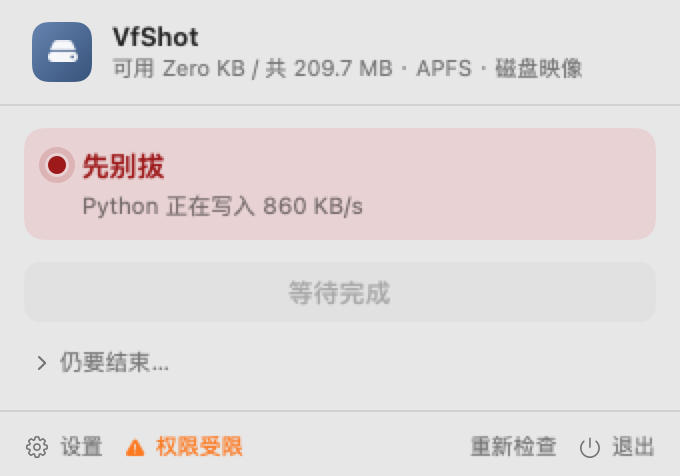
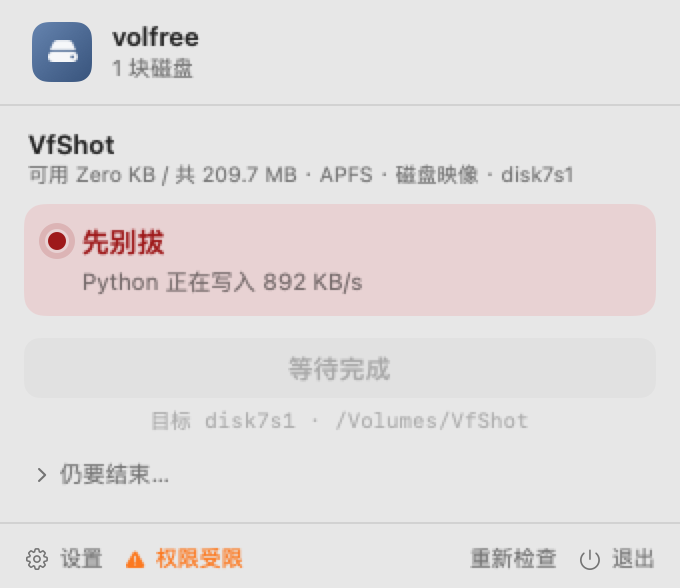
重渲 0.4.0 界面截图，补多盘图与可复现数据源
shots.sh 用 0.4.0 app 重渲 11 张单卷图，compose_shots.py 重拼 3 张对照图与图标预览；
10-空态 / 11-图标 内容与旧版逐字节一致故未变，08 历史对照图保留。

- 新增 shots/12-多盘.png：三卷常驻卷条 + 三重操作对象确认
- 模拟数据源收进 experiments/fake_volumes.py，shots.sh 末尾自动渲染 12，整轮 ./shots.sh 可一键复现
- 根 README「界面」章节补多盘说明与图；app/README.md 同步截图表格、09 通知条描述、VfShot 的 Zero KB 属真实状态说明
- 渲染的仍是真实 PopoverView，不是另画设计稿；判定逻辑与分发物未动

diff --git a/experiments/fake_volumes.py b/experiments/fake_volumes.py
@@ -1,0 +1,161 @@
+#!/usr/bin/python3
+"""多盘界面离屏渲染 / 回归用的模拟数据源。
+
+配合 `VOLFREE_SCRIPT=<本文件> VOLFREE_RENDER=<png>` 使用：让真实 app 读这份假
+JSON 渲染多块磁盘的界面，不必真的插三块盘。`app/shots.sh` 末尾用它生成
+`shots/12-多盘.png`。
+
+环境变量：
+  VOLFREE_FAKE_VOLUMES=1|2|3|5   候选卷数量（默认 3）
+  VOLFREE_FAKE_SAME_PID=1        两块盘出现同一 pid，验证速率键按 (device,pid) 隔离
+  VOLFREE_FAKE_ABANDON=1         第二块盘造「放弃写入」，验证软确认文案带盘名
+
+只供截图与回归使用，不参与构建和分发；判定逻辑仍全部在 volfree.py 里。
+"""
+import json
+import os
+import sys
+import time
+
+VERSION = "0.3.1"
+ACCESS = {"level": "limited", "description": "只能看到本用户进程"}
+TICK = int(time.time() * 1_000_000)
+
+
+def handle(fd="3", access="r", ftype="REG", name="/Volumes/x/a.txt",
+           exists=True, write_state="no"):
+    return {"fd": fd, "access": access, "type": ftype, "name": name,
+            "exists": exists, "write_state": write_state}
+
+
+def flags(has_write=False, all_writes_unlinked=False, all_deleted=False,
+          only_read=True):
+    return {
+        "has_write": has_write,
+        "all_writes_unlinked": all_writes_unlinked,
+        "has_unlinked_write": all_writes_unlinked,
+        "has_uncertain_write": False,
+        "all_deleted": all_deleted,
+        "only_read": only_read,
+        "other_user": False,
+    }
+
+
+def blocker(pid, command, exe, level, has_write=False, all_deleted=False,
+            seed=1):
+    # diskio 按调用时刻递增：两次采样做差商能得到可显示速率。
+    # 系数按 seed 变，同一 pid 出现在两块盘上时速率不同，便于核对键是否隔离。
+    diskio = seed * 100_000_000 + TICK * (2 + seed) if has_write else None
+    return {
+        "pid": pid, "command": command, "exe": exe, "uid": 501,
+        "start_time": 1730000000, "level": level, "reason": "演示数据",
+        "diskio_written": diskio,
+        "flags": flags(has_write=has_write, all_deleted=all_deleted,
+                       only_read=not has_write),
+        "handles": [handle(access="w" if has_write else "r",
+                           write_state="yes" if has_write else "no",
+                           exists=not all_deleted)],
+    }
+
+
+def report(device, mountpoint, name, fstype, total, free, blockers,
+           risky=0, caution=0, safe=0, never=0, writing=0, abandoned=0,
+           tone="safe"):
+    return {
+        "version": VERSION,
+        "volume": {
+            "device": device, "mountpoint": mountpoint, "name": name,
+            "fstype": fstype, "external": True, "virtual": False,
+            "ejectable": True, "removable": True,
+            "total_bytes": total, "free_bytes": free,
+        },
+        "access": ACCESS,
+        "summary": {
+            "total": len(blockers), "never": never, "risky": risky,
+            "caution": caution, "safe": safe, "writing": writing,
+            "abandoned_writes": abandoned, "complete": True,
+        },
+        "blockers": blockers,
+        "clues": [], "warnings": [],
+        "_tone": tone,
+    }
+
+
+def all_volumes():
+    same = os.environ.get("VOLFREE_FAKE_SAME_PID") == "1"
+    b_pid = 4211 if same else 5102
+    b_disk = blocker(b_pid, "Python" if same else "mds_stores",
+                     "/usr/bin/python3" if same
+                     else "/System/Library/Frameworks/CoreServices.framework/mds_stores",
+                     "SAFE", has_write=same, all_deleted=True, seed=2)
+    return [
+        report("/dev/disk4s1", "/Volumes/我的U盘", "我的U盘", "exfat",
+               64000000000, 12000000000,
+               [blocker(4211, "Python", "/usr/bin/python3", "RISKY",
+                        has_write=True, seed=1),
+                blocker(4220, "访达",
+                        "/System/Library/CoreServices/Finder.app/Contents/MacOS/Finder",
+                        "CAUTION")],
+               risky=1, caution=1, writing=1, tone="danger"),
+        report("/dev/disk5s1", "/Volumes/备份盘", "备份盘", "apfs",
+               2000000000000, 800000000000,
+               [b_disk,
+                blocker(5103, "QuickLook",
+                        "/System/Library/Frameworks/QuickLook.framework/QuickLook",
+                        "SAFE", all_deleted=True)],
+               safe=2, tone="caution"),
+        report("/dev/disk6s2", "/Volumes/TimeMachine", "TimeMachine", "apfs",
+               1000000000000, 300000000000, [], tone="safe"),
+        report("/dev/disk7s1", "/Volumes/素材盘", "素材盘", "exfat",
+               500000000000, 90000000000,
+               [blocker(7101, "访达",
+                        "/System/Library/CoreServices/Finder.app/Contents/MacOS/Finder",
+                        "SAFE", all_deleted=True)],
+               safe=1, tone="caution"),
+        report("/dev/disk8s1", "/Volumes/归档", "归档", "apfs",
+               4000000000000, 1500000000000, [], tone="safe"),
+    ]
+
+
+def clean(r):
+    r = dict(r)
+    r.pop("_tone", None)
+    return r
+
+
+def main():
+    args = sys.argv[1:]
+    n = int(os.environ.get("VOLFREE_FAKE_VOLUMES", "3"))
+    volumes = all_volumes()[:n]
+    if os.environ.get("VOLFREE_FAKE_ABANDON") == "1" and len(volumes) >= 2:
+        b = volumes[1]
+        b["summary"]["abandoned_writes"] = 1
+        b["summary"]["writing"] = 1
+        b["summary"]["safe"] = 1
+        first = b["blockers"][0]
+        first["level"] = "CAUTION"
+        first["flags"]["has_write"] = True
+        first["flags"]["all_writes_unlinked"] = True
+        first["flags"]["has_unlinked_write"] = True
+        first["flags"]["only_read"] = False
+        first["diskio_written"] = 3 * 100_000_000 + TICK * 5
+    if args and args[0] == "status":
+        print(json.dumps({"version": VERSION, "access": ACCESS,
+                          "volumes": [clean(v) for v in volumes]},
+                         ensure_ascii=False))
+        return
+    if args and args[0] == "watch":
+        vols = []
+        for v in volumes:
+            s = v["summary"]
+            vols.append({"mountpoint": v["volume"]["mountpoint"], "tone": v["_tone"],
+                         "total": s["total"], "risky": s["risky"],
+                         "writing": s["writing"]})
+        print(json.dumps({"version": VERSION, "volumes": vols}, ensure_ascii=False))
+        return
+    print(json.dumps({"ok": True, "action": "noop", "message": "", "pid": None,
+                      "alive": False}, ensure_ascii=False))
+
+
+if __name__ == "__main__":
+    main()

diff --git a/app/README.md b/app/README.md
@@ -352,13 +352,14 @@ icns 元素类型，没有统一解法。
 | `VOLFREE_RENDER_SETTINGS=1` | 配合上一项，改为渲染设置窗口 |
 | `VOLFREE_EXPAND=1` | 配合渲染，默认展开进程列表 |
 | `VOLFREE_RENDER_DELAY=<秒>` | 出图时间，默认 3.2；核对「到点自动收起」时调大 |
-| `VOLFREE_SIMULATE_EJECT=<名字>` | 没有真盘也能摆出「已推出」卡片，仅配合渲染用 |
+| `VOLFREE_SIMULATE_EJECT=<名字>` | 没有真盘也能摆出「已推出」通知条，仅配合渲染用（设备号是占位符） |
 | `VOLFREE_FORCE_TONE=caution\|danger` | 钉住菜单栏色调，没有真实告警也能核对黄/红两态 |
 | `VOLFREE_DUMP_STATUS_ICON=<png>` | 把菜单栏图标落盘查像素（菜单栏截不了图） |
 | `VOLFREE_OPEN_PANEL=1` | 启动后自动弹出面板，用于测量"使用时"的真实占用 |
 
 `VOLFREE_RENDER` 是为**没有录屏权限**的环境准备的：它渲染的就是真实视图代码，
-不是另画一套。`shots/` 里的图就是这么来的。
+不是另画一套。`shots/` 里绝大多数图就是这么来的；只有 `12-多盘.png` 把数据源换成了
+模拟多卷 JSON，渲染的仍是同一个视图。
 
 ```sh
 VOLFREE_RENDER=/tmp/x.png build/Volfree.app/Contents/MacOS/Volfree
@@ -441,7 +442,8 @@ VOLFREE_RENDER_SETTINGS=1 VOLFREE_RENDER=/tmp/s.png build/Volfree.app/Contents/M
 
 ## 截图
 
-`shots/` 里的图都是 `VOLFREE_RENDER` 真机渲染的，不是设计稿。
+`shots/` 里的图都是 `VOLFREE_RENDER` 渲染真实视图得到的，不是设计稿；
+唯一例外是 `12-多盘.png`——本机没插三块真盘，卷数据由 `experiments/fake_volumes.py` 提供。
 
 重渲全部图只要一条命令：
 
@@ -479,12 +481,18 @@ python3 compose_shots.py       # 重建 四态对照 / 06 / 07 / 11-图标
 | `06-绿-权限受限与设置.png` | 权限受限时绿态文案降级 + 设置窗口登录项置灰 |
 | `07-红-写入速率.png` | 红态收起/展开，带真实速率 |
 | `08-按钮压线-前后.png` | 主按钮与底栏横线的间距修复前后 |
-| `09-已推出.png` | 旧版推出后的全屏确认卡片（6 秒后自动收起）；现改为卷条下方的通知条，其余盘始终可见 |
+| `09-已推出.png` | 推出后的一次性通知条（6 秒后自动收起），其余盘始终可见；由 `VOLFREE_SIMULATE_EJECT` 模拟，右侧 `simulated/…` 是占位设备号，真实使用时为 `diskNsX` |
 | `10-空态.png` | 没插盘 |
 | `11-图标.png` | `AppIcon.icns` 各档尺寸的预览（直接拆包内 icns，不另画） |
+| `12-多盘.png` | 三块磁盘时的常驻卷条与三重操作确认；卷名、容量来自 `experiments/fake_volumes.py` 的模拟数据 |
 | `四态对照.png` | 四态并排 |
 
 `06a/06b`、`07a/07b` 是拼 `06`、`07` 用的单张源图，留在目录里方便单独引用其中一张。
+
+`01`～`07` 用的是临时 APFS 卷 `VfShot`（200 MB），刚建好时 `diskutil` 报可用空间为
+`Zero KB`——这是临时卷的真实状态，不是软件读错；容量只用于显示，不参与判定。
+`12-多盘.png` 用 `experiments/fake_volumes.py` 喂模拟 JSON，渲染的仍是同一套真实
+`PopoverView`，`shots.sh` 末尾会自动生成它。
 
 ## 「已推出」为什么只有 6 秒
 

diff --git a/README.md b/README.md
@@ -21,6 +21,11 @@
 
 ![面板展开后的进程列表](app/shots/05-黄-展开进程.png)
 
+同时插几块移动硬盘时，顶部常驻卷条：每块盘的状态、挂载点和设备号一眼可见，
+选中的那块在下方展开详情。主按钮直接写明要推出哪块盘，下面还有设备号可以核对——不会推错。
+
+![多块磁盘时的面板](app/shots/12-多盘.png)
+
 设置里是权限范围、登录项和版本号：
 
 ![设置窗口](app/shots/06b-设置.png)
